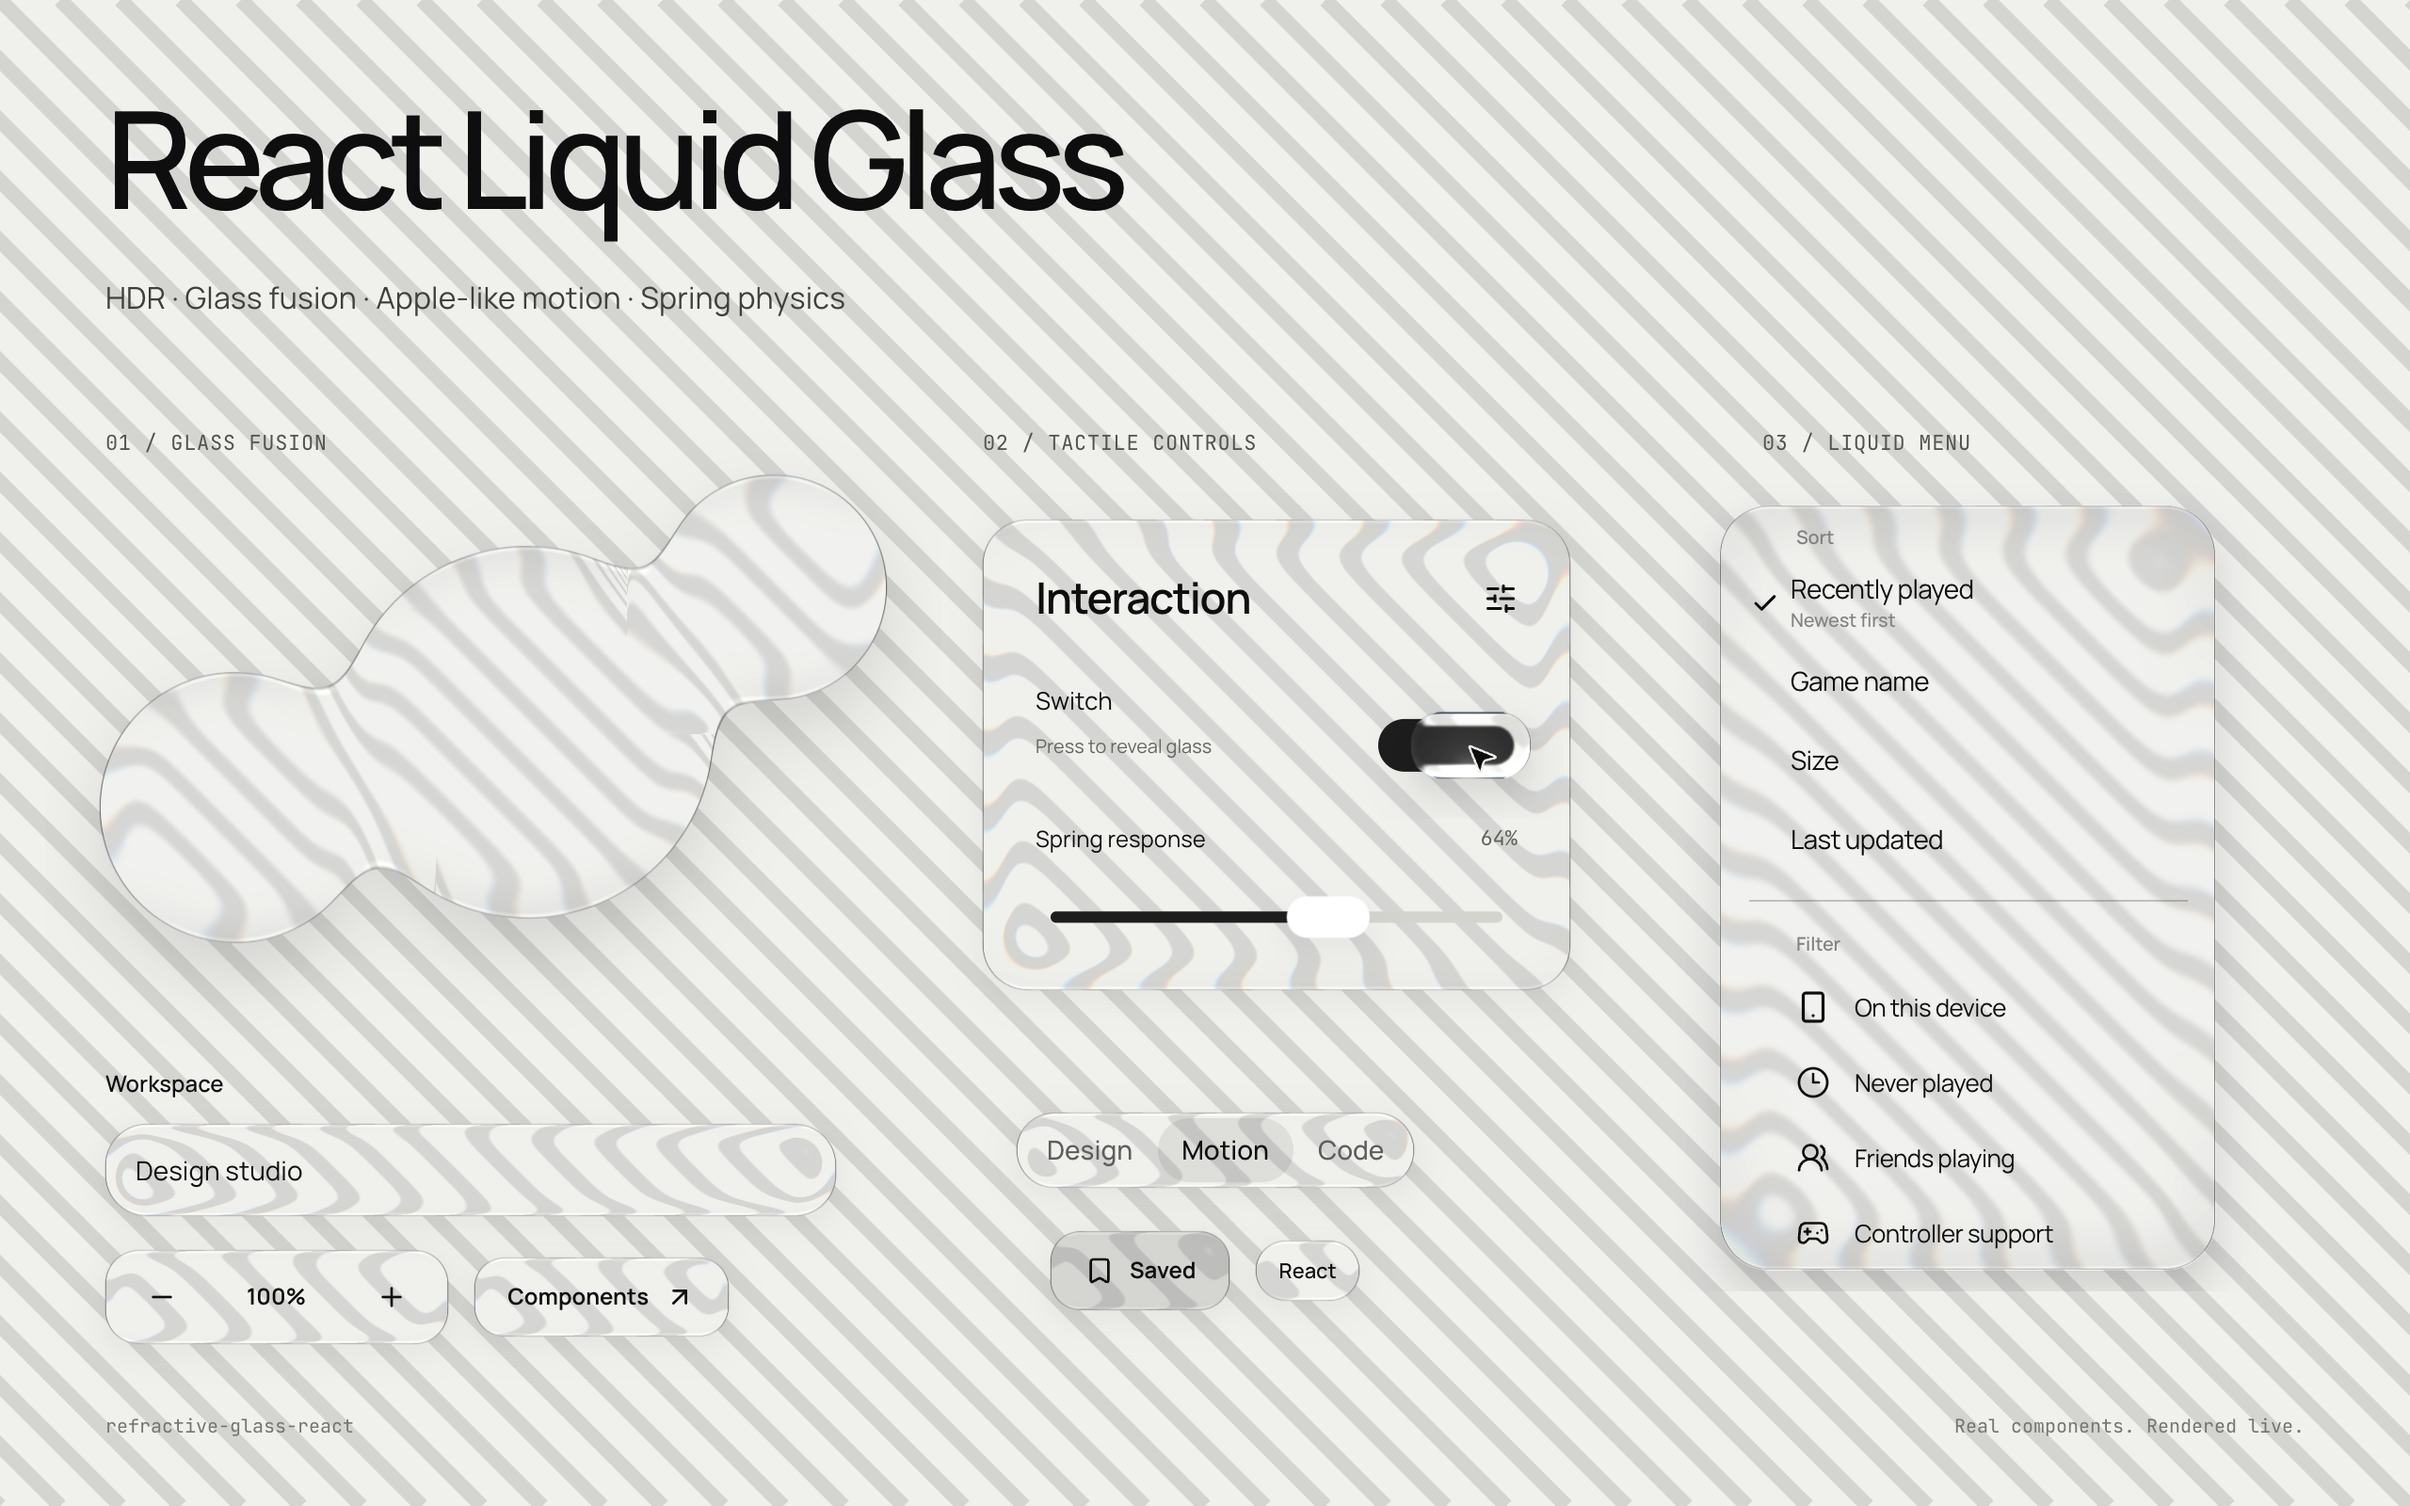
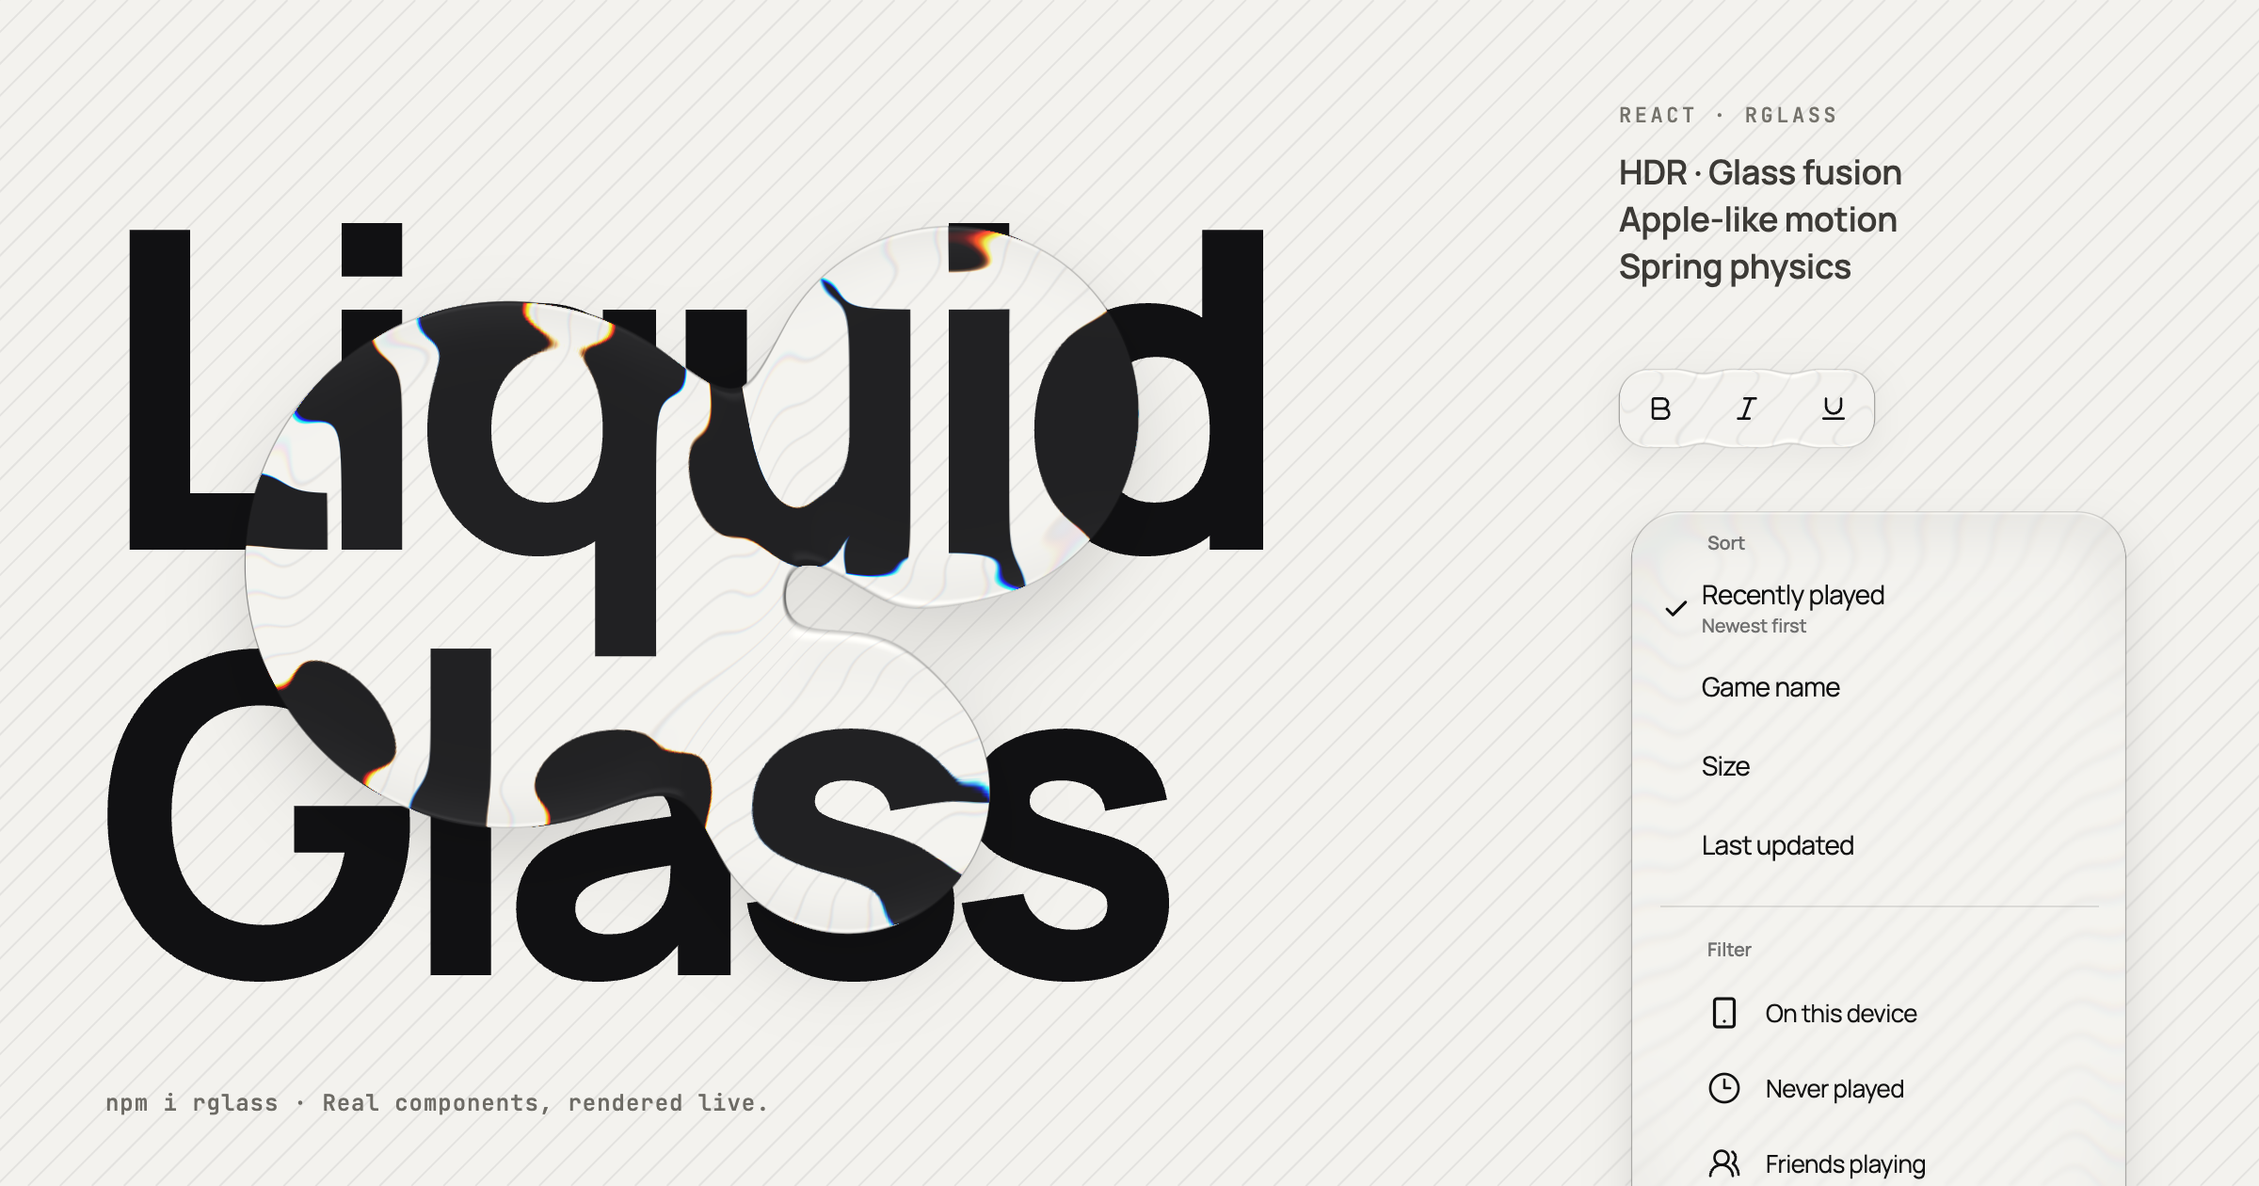
docs: redesign the README cover and og:image
A monochrome cover in the docs' paper-and-hatch style: large fused glass
bodies sit on the giant "Liquid Glass" title so the real refraction,
fusion necks and dispersion read at README size, beside a fused
GlassGroup toolbar and the open Morph Menu, with no glass nested in glass.

The scene lives in apps/docs/tests/readme-cover.html and
readme-cover.mjs captures it with the real renderer into
.github/assets/readme-hero.png (2x) and apps/docs/public/og.jpg.

diff --git a/apps/docs/tests/readme-cover.tsx b/apps/docs/tests/readme-cover.tsx
@@ -1,0 +1,104 @@
+// README cover and og:image scene: real components and real glass, captured by readme-cover.mjs.
+import "@fontsource-variable/manrope";
+import "@fontsource-variable/jetbrains-mono";
+import "rglass/controls.css";
+import { useLayoutEffect, useRef } from "react";
+import { createRoot } from "react-dom/client";
+import { motionValue } from "motion/react";
+import { LiquidGlassCanvas, LiquidGlassProvider } from "rglass/liquid-glass";
+import { GlassButton, GlassGroup } from "rglass/controls";
+import { Bold, Italic, Underline } from "lucide-react";
+import { MorphMenuDemo } from "../src/demos/MorphMenuDemo";
+
+const W = 1200, H = 630;
+const params = new URLSearchParams(location.search);
+
+/** Everything the glass refracts lives in one canvas, so DOM controls and the fused bodies see the same page. */
+function paint(canvas: HTMLCanvasElement) {
+  canvas.width = W * 2; canvas.height = H * 2;
+  const ctx = canvas.getContext("2d")!;
+  ctx.scale(2, 2);
+  ctx.fillStyle = "#f3f2ee"; ctx.fillRect(0, 0, W, H);
+  ctx.strokeStyle = "rgb(17 17 19 / .07)"; ctx.lineWidth = 1;
+  ctx.beginPath();
+  for (let d = -H; d < W + H; d += 12 * Math.SQRT2) { ctx.moveTo(d, H); ctx.lineTo(d + H, 0); }
+  ctx.stroke();
+  // The title sits under the glass: crisp type is what a lens visibly bends.
+  ctx.fillStyle = "#111113";
+  ctx.font = '800 236px "Manrope Variable"';
+  ctx.letterSpacing = "-15px";
+  ctx.fillText("Liquid", 50, 292);
+  ctx.fillText("Glass", 50, 518);
+}
+
+function Cover() {
+  const substrate = useRef<HTMLCanvasElement>(null);
+  const revision = useRef(motionValue(0)).current;
+  useLayoutEffect(() => { paint(substrate.current!); revision.set(1); }, [revision]);
+  return (
+    <main className="cover">
+      <canvas ref={substrate} className="cover-substrate" aria-hidden="true" />
+      <LiquidGlassCanvas
+        sourceRef={substrate}
+        sourceRevision={revision}
+        width={W}
+        height={H}
+        // Each body refracts like a standalone lens of its own size (see refractionRatio), 1.5x stronger.
+        blobs={([[270, 300, 140], [505, 220, 100], [450, 420, 76]] as const).map(([x, y, radius]) => ({ x: x / W, y: y / H, radius, refractionRatio: [1.5 * (radius * 2 + 28) / W, 1.5 * (radius * 2 + 28) / H] as const }))}
+        mergeDistance={56}
+        refractionStrength={0.14}
+        edgeDepth={14}
+        domeDepth={24}
+        chromaAmount={0.55}
+        blurStrength={0}
+        specularStrength={0.72}
+        glowStrength={0.3}
+        shadowStrength={0.12}
+        shadowBlur={26}
+        shadowOffset={18}
+        transparentOutside
+        hdr={false}
+        className="cover-glass"
+        ariaLabel="Three fused liquid glass bodies over the title"
+      />
+      <header className="cover-copy">
+        <p className="cover-caption">React · rglass</p>
+        <h1 className="cover-title">React Liquid Glass</h1>
+        <p className="cover-tagline">HDR · Glass fusion<br />Apple-like motion<br />Spring physics</p>
+      </header>
+      <div className="cover-controls">
+        <GlassGroup spacing={24} className="cover-group" role="group" aria-label="Text style">
+          <GlassButton aria-label="Bold"><Bold size={16} /></GlassButton>
+          <GlassButton aria-label="Italic"><Italic size={16} /></GlassButton>
+          <GlassButton aria-label="Underline"><Underline size={16} /></GlassButton>
+        </GlassGroup>
+        <div className="cover-menu"><MorphMenuDemo locale="en" theme="light" /></div>
+      </div>
+      <p className="cover-note">npm i rglass · Real components, rendered live.</p>
+    </main>
+  );
+}
+
+const style = document.createElement("style");
+style.textContent = `
+html, body { margin: 0; background: #f3f2ee; }
+.cover { position: relative; width: ${W}px; height: ${H}px; overflow: hidden; color: #111113; font-family: "Manrope Variable", system-ui, sans-serif; }
+.cover-substrate, .cover-glass { position: absolute; inset: 0; width: ${W}px; height: ${H}px; }
+.cover-copy { position: absolute; left: 860px; top: 56px; width: 280px; }
+.cover-caption { margin: 0 0 12px; font: 500 11px/1 "JetBrains Mono Variable", monospace; letter-spacing: .16em; text-transform: uppercase; color: #75736c; }
+.cover-title { position: absolute; width: 1px; height: 1px; overflow: hidden; clip-path: inset(50%); }
+.cover-tagline { margin: 0; font-size: 18px; line-height: 1.4; font-weight: 600; letter-spacing: -.01em; color: #3c3a36; }
+.cover-controls { position: absolute; left: 860px; top: 196px; width: 300px; }
+.cover-group .dg-glass-group__items { gap: 2px; }
+.cover-group .dg-button > .dg-surface > .dg-surface__content { padding: 0; width: 44px; }
+.cover-menu { position: absolute; left: -24px; top: 64px; width: 324px; height: 430px; }
+.cover-menu .dg-liquid-glass--small { height: 100%; }
+.cover-note { position: absolute; left: 56px; bottom: 34px; margin: 0; font: 500 12px/1.7 "JetBrains Mono Variable", monospace; letter-spacing: .04em; color: #6d6b65; }
+`;
+document.head.append(style);
+await document.fonts.load('800 236px "Manrope Variable"');
+createRoot(document.getElementById("root")!).render(
+  <LiquidGlassProvider material={{}} backend={params.get("renderer") === "webgl2" ? "webgl2" : "auto"}>
+    <Cover />
+  </LiquidGlassProvider>,
+);

diff --git a/apps/docs/tests/readme-cover.html b/apps/docs/tests/readme-cover.html
@@ -1,0 +1,3 @@
+<!doctype html>
+<html lang="en"><meta charset="utf-8"><meta name="viewport" content="width=1200"><title>React Liquid Glass cover</title>
+<div id="root"></div><script type="module" src="./readme-cover.tsx"></script></html>

diff --git a/docs/design-constraints.md b/docs/design-constraints.md
@@ -6,7 +6,7 @@ Read only the sections relevant to the current task. These are the current accep
 
 - The docs page itself scrolls natively on the document: a thin neutral scrollbar, sticky navigation, native keyboard scrolling, top-of-page on link navigation and per-entry scroll restoration for Back, Forward and reload. Page content clips horizontal optical bleed without becoming a scroll container. Authored inner scroll regions use the shared `ScrollArea` with overlay scrollbars visible only on hover. Declare each region's scrolling axis; optical canvas bleed must not create phantom scrollbars. Material panels have one vertical scroll viewport, inset thumbs, and unclipped outer glass shadows; presets scroll horizontally only when their content actually overflows.
 
-- README cover art features the project's real rendered glass on a diagonal-stripe substrate, with Orbit-style fused glass bodies and a Switch captured during an actual pointer hold so its expanded transparent lens is visible. Include a rich selection of real controls, such as Slider, Tabs, the liquid menu, inputs and buttons. Keep text and glass contours sharp with native-resolution captures; never stretch low-resolution component canvases to fill the artwork. Keep HDR, glass fusion, Apple-like motion and spring physics prominent in the opening README copy. Do not use the black-and-white building photograph for the README cover.
+- README cover art, also the docs og:image, is rendered from `apps/docs/tests/readme-cover.html` by `readme-cover.mjs` with the real renderer. It is monochrome, in the docs' paper-and-hatch style, with no decorative color shapes or waves. Large fused glass bodies cover much of the giant "Liquid Glass" title, so real refraction and dispersion read at README size. A right column holds real components, with no glass nested in glass: a fused GlassGroup toolbar and the open Morph Menu. Keep text and glass contours sharp with native-resolution captures; never stretch low-resolution component canvases to fill the artwork. Keep HDR, glass fusion, Apple-like motion and spring physics prominent in the opening README copy. Do not use the black-and-white building photograph for the README cover.
 
 - The home introduction has no technology-stack eyebrow or status dot; keep the removed “React · WebGL · Motion” line out.
 

diff --git a/README.md b/README.md
@@ -2,7 +2,7 @@
 
 **HDR · Glass fusion · Apple-like motion · Spring physics**
 
-![React Liquid Glass — fused glass bodies and a pressed glass Switch over diagonal stripes, alongside the library's Slider, Tabs, liquid menu, input and buttons.](.github/assets/readme-hero.png)
+![React Liquid Glass: three fused liquid glass bodies refracting the giant "Liquid Glass" title, beside a fused GlassGroup toolbar and an open Morph Menu.](.github/assets/readme-hero.png)
 
 A React component library built on project-owned liquid glass optics and physical motion. This repository is an npm-workspaces monorepo.
 
